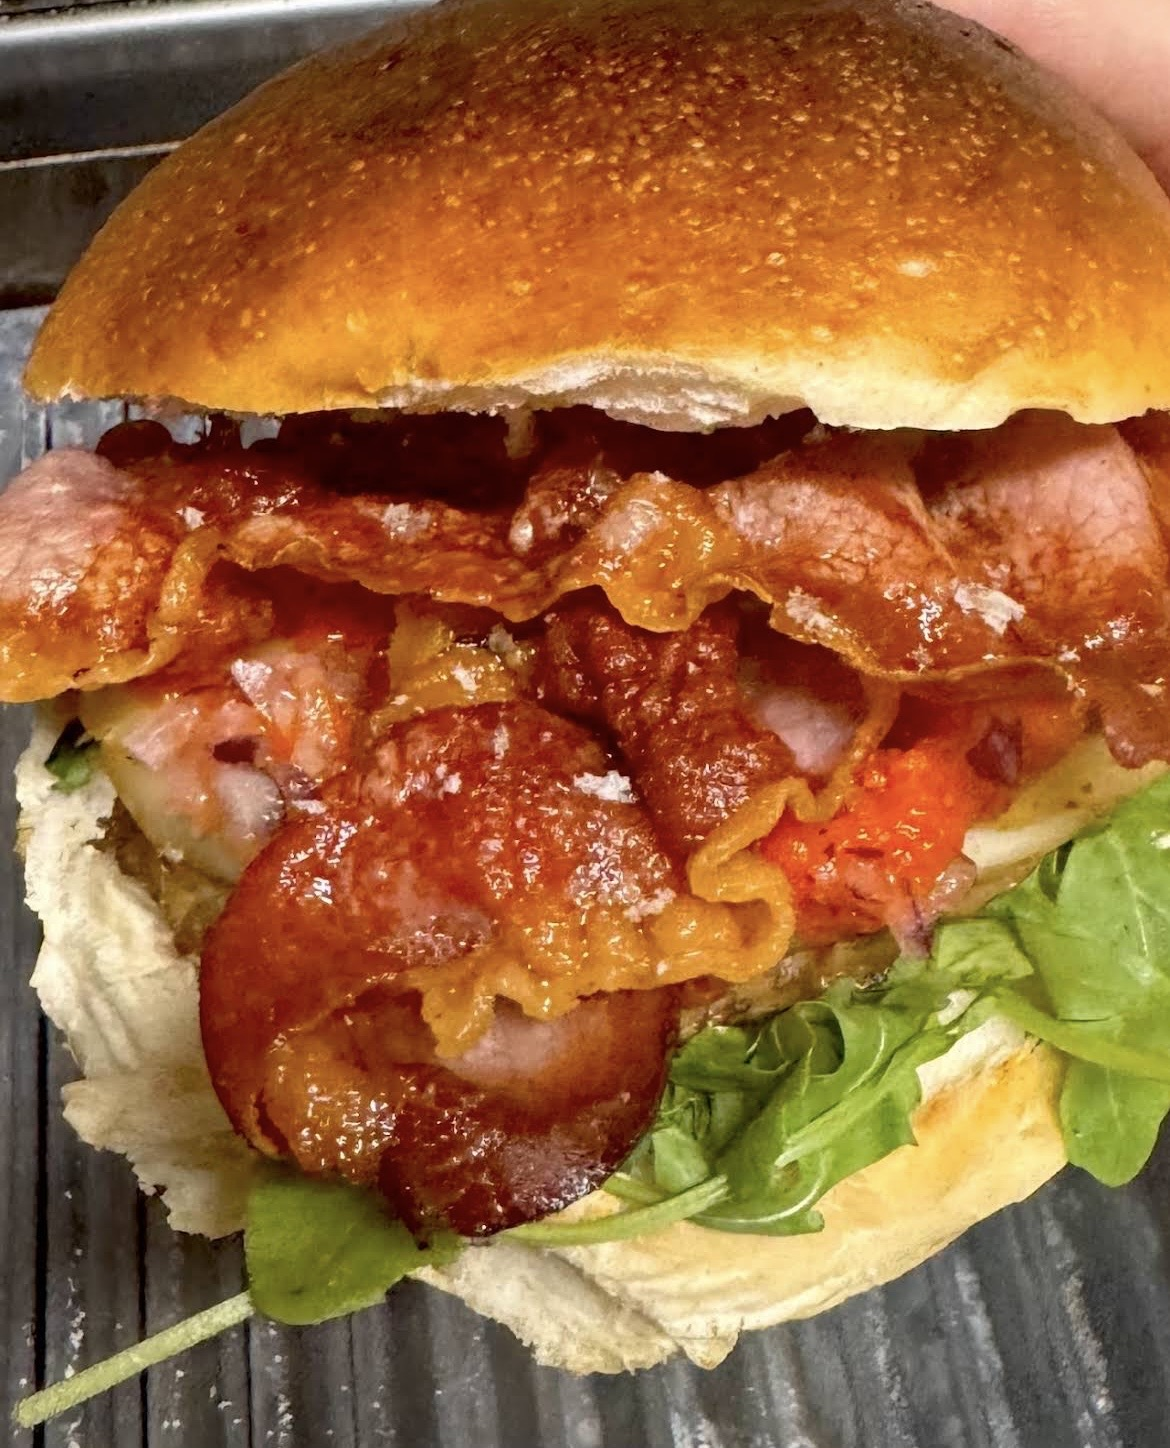
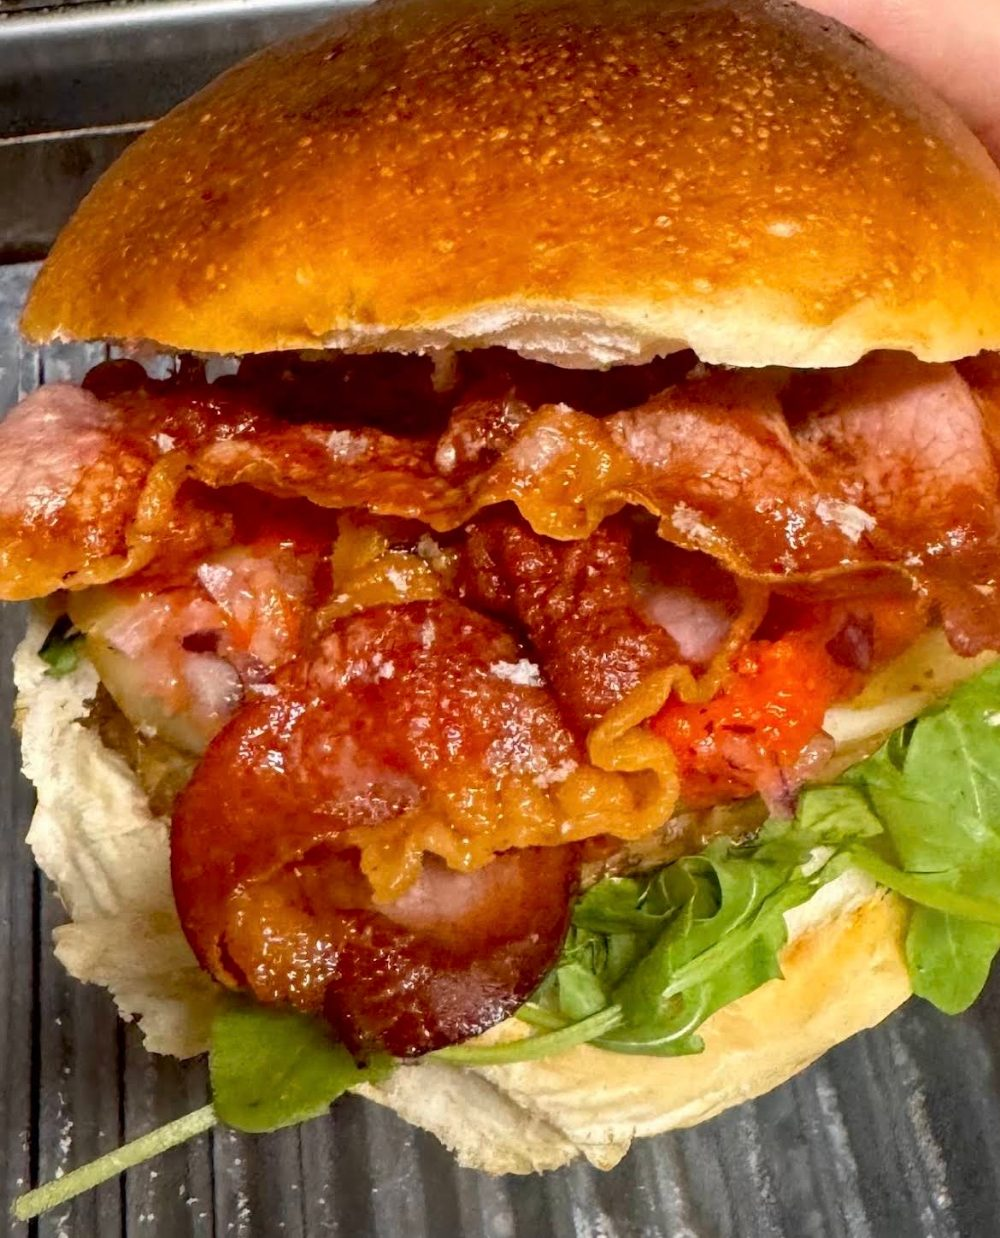
INDUSTRIAL 14: 10 migliorie da revisione del sito
1. Banner cookie: da riquadro invadente a striscia sottile in fondo, con
   spazio aggiunto alla pagina cosi non copre piu nessun contenuto
2. Header pulito su telefono: 'Prenota' spostato dentro il menu hamburger
   (su desktop resta nella barra, dove c'e spazio)
3. Foto galleria non piu tagliate male: riquadri 4/5 (1/1 in anteprima home)
4. Immagini ottimizzate: 4,95 MB -> 2,48 MB (-50%), qualita invariata
5. Aggiunto favicon (icona '14' su fondo ruggine)
6. Copertina piu compatta: meno spazio vuoto sotto il logo
7. In home foto hamburger sostituita col primo piano, piu appetitosa
8. Pagina menu: collegamenti rapidi alle categorie con ancore
9. Rimosso ingresso.jpg, non piu usato (508 KB)
10. Verificato che l'iframe della mappa risponda correttamente

Claude-Session: https://claude.ai/code/session_01E2djtP3CqSiMBEF2EGJJVj

diff --git a/industrial14/menu.html b/industrial14/menu.html
@@ -9,6 +9,8 @@
   <link rel="preconnect" href="https://fonts.googleapis.com">
   <link rel="preconnect" href="https://fonts.gstatic.com" crossorigin>
   <link href="https://fonts.googleapis.com/css2?family=Oswald:wght@400;500;600;700&family=Inter:wght@400;500;600&display=swap" rel="stylesheet">
+  <link rel="icon" type="image/png" href="favicon.png">
+  <link rel="apple-touch-icon" href="favicon.png">
   <link rel="stylesheet" href="style.css">
 </head>
 <body>
@@ -40,6 +42,7 @@
       <a href="menu.html" class="active">Menù</a>
       <a href="galleria.html">Galleria</a>
       <a href="contatti.html">Contatti</a>
+      <a class="ov-book" href="tel:+390350390279">📞 Prenota</a>
     </nav>
   </div>
 
@@ -56,6 +59,14 @@
   <!-- MENU -->
   <section>
     <div class="wrap">
+      <div class="cat-chips" style="margin-bottom:40px">
+        <a href="#pizze">Pizze</a>
+        <a href="#hamburger">Hamburger</a>
+        <a href="#carni">Carni</a>
+        <a href="#fritture">Fritture</a>
+        <a href="#vegano">🌱 Veganø</a>
+        <a href="#birre">Birre</a>
+      </div>
       <div class="menu-list">
 
         <div class="menu-cat">Antipasti &amp; Varie</div>
@@ -67,7 +78,7 @@
         <div class="menu-row"><span class="name">Crudité <span class="desc">— rucola, stracciatella, tartare di gambero, zest di limone, fiori edibili</span></span><span class="dots"></span><span class="price">15,00 €</span></div>
         <div class="menu-row"><span class="name">Fondue <span class="desc">— fonduta di quattro formaggi, petali di tartufo, battuta di fassona al coltello</span></span><span class="dots"></span><span class="price">16,00 €</span></div>
 
-        <div class="menu-cat">Fritture</div>
+        <div class="menu-cat" id="fritture">Fritture</div>
         <div class="menu-row"><span class="name">Patatine fritte</span><span class="dots"></span><span class="price">3,50 €</span></div>
         <div class="menu-row"><span class="name">Crocchette di patate</span><span class="dots"></span><span class="price">4,00 €</span></div>
         <div class="menu-row"><span class="name">Olive ascolane</span><span class="dots"></span><span class="price">4,00 €</span></div>
@@ -78,7 +89,7 @@
         <div class="menu-row"><span class="name">Nuggets di pollo <span class="desc">— x5 / x10</span></span><span class="dots"></span><span class="price">5,00 €</span></div>
         <div class="menu-row"><span class="name">Mix frittura <span class="desc">— mix delle fritture sopra elencate</span></span><span class="dots"></span><span class="price">12,00 €</span></div>
 
-        <div class="menu-cat">Pizze Classiche</div>
+        <div class="menu-cat" id="pizze">Pizze Classiche</div>
         <div class="menu-row"><span class="name">Marinara <span class="desc">— pomodoro, aglio, olio evo, origano</span></span><span class="dots"></span><span class="price">5,50 €</span></div>
         <div class="menu-row"><span class="name">Margherita <span class="desc">— pomodoro, fiordilatte</span></span><span class="dots"></span><span class="price">6,50 €</span></div>
         <div class="menu-row"><span class="name">Napoli <span class="desc">— pomodoro, fiordilatte, acciughe, origano</span></span><span class="dots"></span><span class="price">8,00 €</span></div>
@@ -121,7 +132,7 @@
         <div class="menu-row"><span class="name">L'è Buna <span class="desc">— fiordilatte, crudo di Parma, burrata affumicata, petali di tartufo nero</span></span><span class="dots"></span><span class="price">15,00 €</span></div>
         <div class="menu-row"><span class="name">Industrial <span class="desc">— pomodoro, bufala DOP, crudo iberico, pecorino al pepe</span></span><span class="dots"></span><span class="price">16,00 €</span></div>
 
-        <div class="menu-cat">Hamburger <span style="font-family:var(--font-testo);text-transform:none;letter-spacing:0;color:var(--muted);font-size:.8rem">· serviti con patatine</span></div>
+        <div class="menu-cat" id="hamburger">Hamburger <span style="font-family:var(--font-testo);text-transform:none;letter-spacing:0;color:var(--muted);font-size:.8rem">· serviti con patatine</span></div>
         <div class="menu-row"><span class="name">Ol Nurmal <span class="desc">— burger di fassona, cheddar, pomodoro, insalata</span></span><span class="dots"></span><span class="price">9,00 €</span></div>
         <div class="menu-row"><span class="name">Ol Barbecue <span class="desc">— burger di fassona, cheddar, bacon, cipolla caramellata, salsa barbecue</span></span><span class="dots"></span><span class="price">10,00 €</span></div>
         <div class="menu-row"><span class="name">Ol Pulastrel <span class="desc">— petto di pollo alla piastra, bacon, pomodoro, insalata, maionese</span></span><span class="dots"></span><span class="price">10,50 €</span></div>
@@ -131,7 +142,7 @@
         <div class="menu-row"><span class="name">Stèrlöch <span class="desc">— burger di fassona, porcini, taleggio, crudo iberico, songino</span></span><span class="dots"></span><span class="price">14,00 €</span></div>
         <div class="menu-row"><span class="name">Ol Norveges <span class="desc">— filetto di salmone, zucchine grigliate, stracciatella DOP, salsa agli agrumi, songino</span></span><span class="dots"></span><span class="price">14,00 €</span></div>
 
-        <div class="menu-cat">Carni &amp; Griglia</div>
+        <div class="menu-cat" id="carni">Carni &amp; Griglia</div>
         <div class="menu-row"><span class="name">Ribs <span class="desc">— costine di maiale cotte a bassa temperatura</span></span><span class="dots"></span><span class="price">12,00 €</span></div>
         <div class="menu-row"><span class="name">Tagliata di pollo <span class="desc">— rucola, scaglie di grana, pomodorini</span></span><span class="dots"></span><span class="price">14,00 €</span></div>
         <div class="menu-row"><span class="name">Tagliata di manzo <span class="desc">— rucola, scaglie di grana, pomodorini</span></span><span class="dots"></span><span class="price">16,00 €</span></div>
@@ -140,7 +151,7 @@
         <div class="menu-row"><span class="name">Costata di scottona</span><span class="dots"></span><span class="price">22,00 €</span></div>
         <div class="menu-row"><span class="name">Filetto al rosmarino</span><span class="dots"></span><span class="price">25,00 €</span></div>
 
-        <div class="menu-cat">🌱 Menù Veganø</div>
+        <div class="menu-cat" id="vegano">🌱 Menù Veganø</div>
         <div class="menu-row"><span class="name">Insalatona <span class="desc">— lattuga, pomodorini, olive, burger vegano, zucchine grigliate, noci</span></span><span class="dots"></span><span class="price">12,00 €</span></div>
         <div class="menu-row"><span class="name">Spitinfia <span class="desc">— pomodoro, aglio, origano, olio evo, rucola, pomodorini, carciofi grigliati, glassa balsamica</span></span><span class="dots"></span><span class="price">12,00 €</span></div>
         <div class="menu-row"><span class="name">Burger Ol Vegan <span class="desc">— burger vegano, songino, pomodori, patate crunchy, maionese vegana, cipolla caramellata</span></span><span class="dots"></span><span class="price">15,00 €</span></div>
@@ -150,7 +161,7 @@
         <div class="menu-row"><span class="name">Scetin <span class="desc">— burger di fassona, cheddar, ketchup, con patatine</span></span><span class="dots"></span><span class="price">7,00 €</span></div>
         <div class="menu-row"><span class="name">Tiramat <span class="desc">— cotoletta e patatine</span></span><span class="dots"></span><span class="price">8,00 €</span></div>
 
-        <div class="menu-cat">Birre</div>
+        <div class="menu-cat" id="birre">Birre</div>
         <div class="menu-row"><span class="name">Bocia <span class="desc">— la nostra lager in lattina (0,33l)</span></span><span class="dots"></span><span class="price">5,00 €</span></div>
         <div class="menu-row"><span class="name">R-1p4 <span class="desc">— la nostra American IPA alla spina, note di agrumi e frutta tropicale (0,33l · 6,6%)</span></span><span class="dots"></span><span class="price">6,50 €</span></div>
         <div class="menu-row"><span class="name">Leffe Rouge <span class="desc">— rossa, avvolgente e dolce (piccola/media · 6,6%)</span></span><span class="dots"></span><span class="price">3,50 €</span></div>
@@ -197,8 +208,8 @@
 
   <!-- COOKIE BANNER -->
   <div class="cookie hidden" id="cookie">
-    <p>Questo sito usa cookie tecnici e, previo consenso, la mappa di Google. <a href="#" onclick="alert('Inserire la Cookie Policy completa.');return false;">Maggiori info</a></p>
-    <button class="btn btn-accent" style="padding:9px 20px" onclick="acceptCookie()">Ho capito</button>
+    <p>Usiamo cookie tecnici e la mappa di Google. <a href="#" onclick="alert('Inserire la Cookie Policy completa.');return false;">Maggiori info</a></p>
+    <button class="btn btn-accent" onclick="acceptCookie()">Ho capito</button>
   </div>
 
   <script src="script.js"></script>

diff --git a/industrial14/style.css b/industrial14/style.css
@@ -88,9 +88,12 @@ header {
 
 /* Azioni a destra + hamburger */
 .nav-actions { display: flex; align-items: center; gap: 10px; }
-.nav-book { display: inline-flex; }
+/* Su telefono l'header resta pulito: Prenota sta nel menu ☰ */
+.nav-book { display: none; }
+@media (min-width: 880px) { .nav-book { display: inline-flex; } }
 /* Galleria in anteprima (home): fila ordinata sempre a 3 */
 .gallery.teaser { grid-template-columns: repeat(2, 1fr); }
+.gallery.teaser .shot { aspect-ratio: 1/1; }
 .nav-toggle {
   display: inline-flex; flex-direction: column; justify-content: center; gap: 5px;
   width: 44px; height: 44px; padding: 11px; background: none; border: 0; cursor: pointer;
@@ -124,13 +127,12 @@ header {
 /* Hero (home) */
 .hero {
   position: relative; border-top: none;
-  min-height: 62vh; display: flex; align-items: center;
-  padding: 72px 0;
+  min-height: 44vh; display: flex; align-items: center;
+  padding: 54px 0 46px;
   text-align: center; overflow: hidden;
   background:
     linear-gradient(180deg, #17171b 0%, #0e0e10 100%);
 }
-.hero p.sub { color: #d7d4d0; }
 .hero::before {
   content: ""; position: absolute; inset: 0;
   background:
@@ -154,7 +156,7 @@ header {
   padding: 116px 0 60px;
   background:
     linear-gradient(180deg, rgba(14,14,16,.74) 0%, rgba(14,14,16,.93) 100%),
-    var(--phimg, url('img/industrial14-ingresso.jpg'));
+    var(--phimg, linear-gradient(180deg, #1a1a1e, #0e0e10));
   background-size: cover; background-position: center 42%; background-repeat: no-repeat;
 }
 .page-hero .wrap { position: relative; z-index: 2; }
@@ -165,12 +167,14 @@ header {
 /* CTA centrata + chip categorie */
 .center-cta { text-align: center; margin-top: 42px; display: flex; flex-wrap: wrap; gap: 14px; justify-content: center; }
 .cat-chips { display: flex; flex-wrap: wrap; gap: 10px; justify-content: center; max-width: 760px; margin: 0 auto; }
-.cat-chips span { font-family: var(--font-titoli); text-transform: uppercase; letter-spacing: .08em; font-size: .82rem; color: var(--text); border: 1px solid var(--line); border-radius: 999px; padding: 8px 16px; background: var(--bg-soft); }
+.cat-chips a, .cat-chips span { font-family: var(--font-titoli); text-transform: uppercase; letter-spacing: .08em; font-size: .82rem; color: var(--text); border: 1px solid var(--line); border-radius: 999px; padding: 8px 16px; background: var(--bg-soft); transition: color .2s, border-color .2s; }
+.cat-chips a:hover { color: var(--accent); border-color: var(--accent); }
 
 /* Menu */
 .menu-list { max-width: 780px; margin: 0 auto; }
 .menu-cat { font-family: var(--font-titoli); text-transform: uppercase; letter-spacing: .14em; color: var(--accent); font-size: 1rem; margin: 34px 0 6px; }
 .menu-cat:first-child { margin-top: 0; }
+.menu-cat { scroll-margin-top: 88px; }
 .menu-row {
   display: flex; align-items: baseline; gap: 14px;
   padding: 15px 4px; border-bottom: 1px dashed var(--line);
@@ -185,7 +189,7 @@ header {
 .gallery { display: grid; grid-template-columns: repeat(2, 1fr); gap: 12px; }
 @media (min-width: 720px) { .gallery { grid-template-columns: repeat(3, 1fr); } }
 .shot {
-  position: relative; aspect-ratio: 4/3; border-radius: var(--radius); overflow: hidden;
+  position: relative; aspect-ratio: 4/5; border-radius: var(--radius); overflow: hidden;
   background: repeating-linear-gradient(135deg, #202027 0 14px, #191920 14px 28px);
   border: 1px solid var(--line);
   display: grid; place-items: center;
@@ -273,16 +277,17 @@ footer .legal a { color: var(--muted); text-decoration: underline; }
 @media (min-width: 880px) { .mobile-bar { display: none; } body { padding-bottom: 0; } }
 
 /* Cookie banner */
+/* Striscia sottile in fondo: non copre i contenuti */
 .cookie {
-  position: fixed; left: 16px; right: 16px; bottom: 16px; z-index: 70;
-  background: var(--card); border: 1px solid var(--line); border-radius: var(--radius);
-  padding: 16px 18px; display: flex; flex-wrap: wrap; gap: 12px; align-items: center;
-  box-shadow: 0 12px 40px rgba(0,0,0,.5); font-size: .86rem; color: var(--muted);
+  position: fixed; left: 0; right: 0; bottom: 0; z-index: 70;
+  background: rgba(22,22,26,.97); border-top: 1px solid var(--line);
+  padding: 9px 16px; display: flex; flex-wrap: nowrap; gap: 12px; align-items: center;
+  justify-content: center; font-size: .78rem; color: var(--muted);
 }
 .cookie.hidden { display: none; }
-.cookie p { flex: 1; min-width: 220px; }
+.cookie p { margin: 0; }
 .cookie a { color: var(--accent); text-decoration: underline; }
-@media (min-width: 880px) { .cookie { bottom: 16px; max-width: 440px; left: auto; right: 16px; } }
+.cookie .btn { padding: 7px 16px; font-size: .74rem; flex-shrink: 0; }
 
 /* Reveal on scroll */
 .reveal { opacity: 0; transform: translateY(22px); transition: opacity .7s ease, transform .7s ease; }

diff --git a/industrial14/index.html b/industrial14/index.html
@@ -16,6 +16,8 @@
   <link rel="preconnect" href="https://fonts.googleapis.com">
   <link rel="preconnect" href="https://fonts.gstatic.com" crossorigin>
   <link href="https://fonts.googleapis.com/css2?family=Oswald:wght@400;500;600;700&family=Inter:wght@400;500;600&display=swap" rel="stylesheet">
+  <link rel="icon" type="image/png" href="favicon.png">
+  <link rel="apple-touch-icon" href="favicon.png">
   <link rel="stylesheet" href="style.css">
 
   <script type="application/ld+json">
@@ -79,6 +81,7 @@
       <a href="menu.html">Menù</a>
       <a href="galleria.html">Galleria</a>
       <a href="contatti.html">Contatti</a>
+      <a class="ov-book" href="tel:+390350390279">📞 Prenota</a>
     </nav>
   </div>
 
@@ -135,7 +138,7 @@
       </div>
       <div class="gallery teaser reveal">
         <div class="shot"><img src="img/industrial14-pizza-burrata-fichi.jpg" alt="Pizza gourmet con burrata, crudo e fichi — INDUSTRIAL 14" loading="lazy"><span class="shot-label">Pizza gourmet</span></div>
-        <div class="shot"><img src="img/industrial14-hamburger.jpg" alt="Hamburger con uovo, bacon e patate — INDUSTRIAL 14" loading="lazy"><span class="shot-label">Hamburger</span></div>
+        <div class="shot"><img src="img/industrial14-hamburger-bacon.jpg" alt="Hamburger con bacon croccante — INDUSTRIAL 14" loading="lazy"><span class="shot-label">Hamburger</span></div>
       </div>
       <div class="center-cta reveal">
         <a class="btn btn-ghost" href="galleria.html">Vedi tutte le foto →</a>
@@ -204,8 +207,8 @@
 
   <!-- COOKIE BANNER -->
   <div class="cookie hidden" id="cookie">
-    <p>Questo sito usa cookie tecnici e, previo consenso, la mappa di Google. <a href="#" onclick="alert('Inserire la Cookie Policy completa.');return false;">Maggiori info</a></p>
-    <button class="btn btn-accent" style="padding:9px 20px" onclick="acceptCookie()">Ho capito</button>
+    <p>Usiamo cookie tecnici e la mappa di Google. <a href="#" onclick="alert('Inserire la Cookie Policy completa.');return false;">Maggiori info</a></p>
+    <button class="btn btn-accent" onclick="acceptCookie()">Ho capito</button>
   </div>
 
   <script src="script.js"></script>

diff --git a/industrial14/contatti.html b/industrial14/contatti.html
@@ -9,6 +9,8 @@
   <link rel="preconnect" href="https://fonts.googleapis.com">
   <link rel="preconnect" href="https://fonts.gstatic.com" crossorigin>
   <link href="https://fonts.googleapis.com/css2?family=Oswald:wght@400;500;600;700&family=Inter:wght@400;500;600&display=swap" rel="stylesheet">
+  <link rel="icon" type="image/png" href="favicon.png">
+  <link rel="apple-touch-icon" href="favicon.png">
   <link rel="stylesheet" href="style.css">
 </head>
 <body>
@@ -40,6 +42,7 @@
       <a href="menu.html">Menù</a>
       <a href="galleria.html">Galleria</a>
       <a href="contatti.html" class="active">Contatti</a>
+      <a class="ov-book" href="tel:+390350390279">📞 Prenota</a>
     </nav>
   </div>
 
@@ -129,8 +132,8 @@
 
   <!-- COOKIE BANNER -->
   <div class="cookie hidden" id="cookie">
-    <p>Questo sito usa cookie tecnici e, previo consenso, la mappa di Google. <a href="#" onclick="alert('Inserire la Cookie Policy completa.');return false;">Maggiori info</a></p>
-    <button class="btn btn-accent" style="padding:9px 20px" onclick="acceptCookie()">Ho capito</button>
+    <p>Usiamo cookie tecnici e la mappa di Google. <a href="#" onclick="alert('Inserire la Cookie Policy completa.');return false;">Maggiori info</a></p>
+    <button class="btn btn-accent" onclick="acceptCookie()">Ho capito</button>
   </div>
 
   <script src="script.js"></script>

diff --git a/industrial14/galleria.html b/industrial14/galleria.html
@@ -9,6 +9,8 @@
   <link rel="preconnect" href="https://fonts.googleapis.com">
   <link rel="preconnect" href="https://fonts.gstatic.com" crossorigin>
   <link href="https://fonts.googleapis.com/css2?family=Oswald:wght@400;500;600;700&family=Inter:wght@400;500;600&display=swap" rel="stylesheet">
+  <link rel="icon" type="image/png" href="favicon.png">
+  <link rel="apple-touch-icon" href="favicon.png">
   <link rel="stylesheet" href="style.css">
 </head>
 <body>
@@ -40,6 +42,7 @@
       <a href="menu.html">Menù</a>
       <a href="galleria.html" class="active">Galleria</a>
       <a href="contatti.html">Contatti</a>
+      <a class="ov-book" href="tel:+390350390279">📞 Prenota</a>
     </nav>
   </div>
 
@@ -101,8 +104,8 @@
 
   <!-- COOKIE BANNER -->
   <div class="cookie hidden" id="cookie">
-    <p>Questo sito usa cookie tecnici e, previo consenso, la mappa di Google. <a href="#" onclick="alert('Inserire la Cookie Policy completa.');return false;">Maggiori info</a></p>
-    <button class="btn btn-accent" style="padding:9px 20px" onclick="acceptCookie()">Ho capito</button>
+    <p>Usiamo cookie tecnici e la mappa di Google. <a href="#" onclick="alert('Inserire la Cookie Policy completa.');return false;">Maggiori info</a></p>
+    <button class="btn btn-accent" onclick="acceptCookie()">Ho capito</button>
   </div>
 
   <script src="script.js"></script>

diff --git a/industrial14/script.js b/industrial14/script.js
@@ -8,10 +8,18 @@
 (function () {
   var c = document.getElementById('cookie');
   if (!c) return;
-  if (!localStorage.getItem('i14_cookie_ok')) c.classList.remove('hidden');
+  function spazio() {
+    document.body.style.paddingBottom = c.classList.contains('hidden') ? '' : c.offsetHeight + 'px';
+  }
+  if (!localStorage.getItem('i14_cookie_ok')) {
+    c.classList.remove('hidden');
+    spazio();
+    window.addEventListener('resize', spazio);
+  }
   window.acceptCookie = function () {
     localStorage.setItem('i14_cookie_ok', '1');
     c.classList.add('hidden');
+    spazio();
   };
 })();
 
